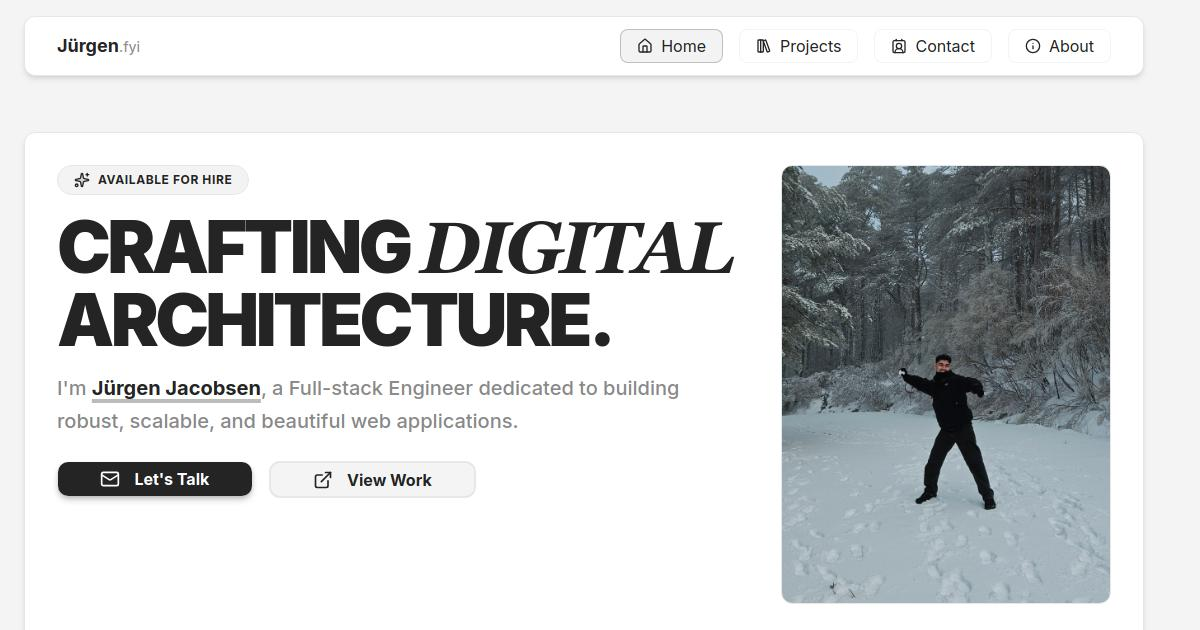
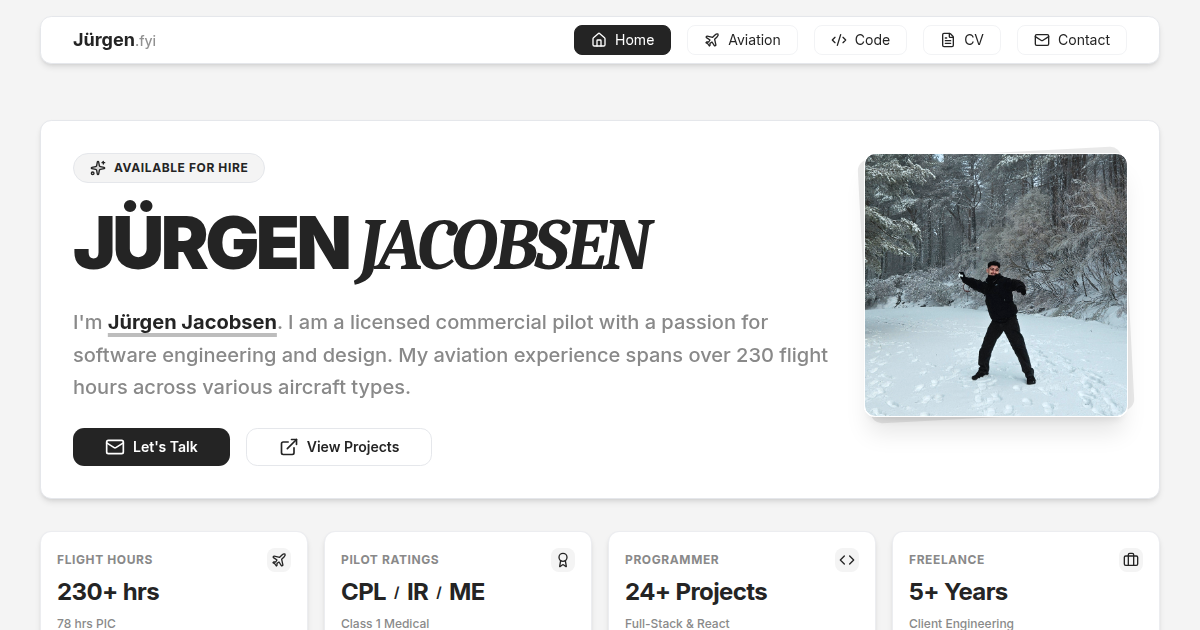
📝 Update index.html meta information & preview image

diff --git a/index.html b/index.html
@@ -17,6 +17,10 @@
             content="Personal portfolio of Jürgen Jacobsen, showcasing software engineering projects, skills, and experience in web development."
         />
 
+        <meta name="author" content="Jürgen Jacobsen" />
+        <meta name="theme-color" content="#ffffff" media="(prefers-color-scheme: light)" />
+        <meta name="theme-color" content="#171717" media="(prefers-color-scheme: dark)" />
+
         <!-- Open Graph / Facebook -->
         <meta property="og:type" content="website" />
         <meta property="og:url" content="https://jurgen.fyi/" />
@@ -25,7 +29,7 @@
             property="og:description"
             content="Personal portfolio of Jürgen Jacobsen, showcasing software engineering projects, skills, and experience in web development."
         />
-        <meta property="og:image" content="/img/preview.png" />
+        <meta property="og:image" content="https://jurgen.fyi/img/preview.png" />
         <meta property="og:site_name" content="Jürgen Jacobsen" />
 
         <!-- Twitter -->
@@ -36,7 +40,7 @@
             property="twitter:description"
             content="Personal portfolio of Jürgen Jacobsen, showcasing software engineering projects, skills, and experience in web development."
         />
-        <meta property="twitter:image" content="/img/preview.png" />
+        <meta property="twitter:image" content="https://jurgen.fyi/img/preview.png" />
 
         <link rel="manifest" href="/site.webmanifest">
         <link
